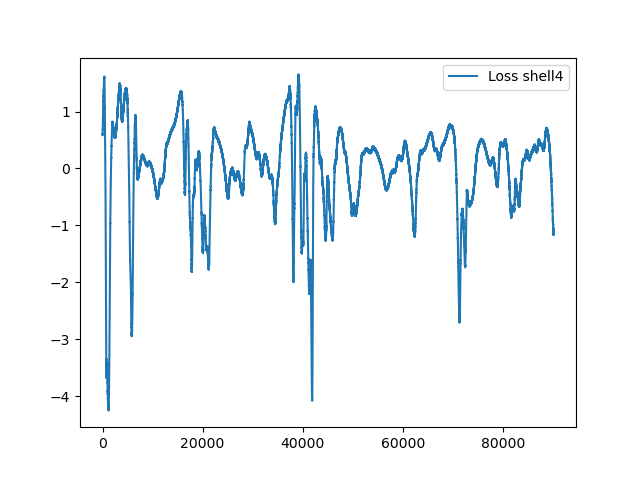
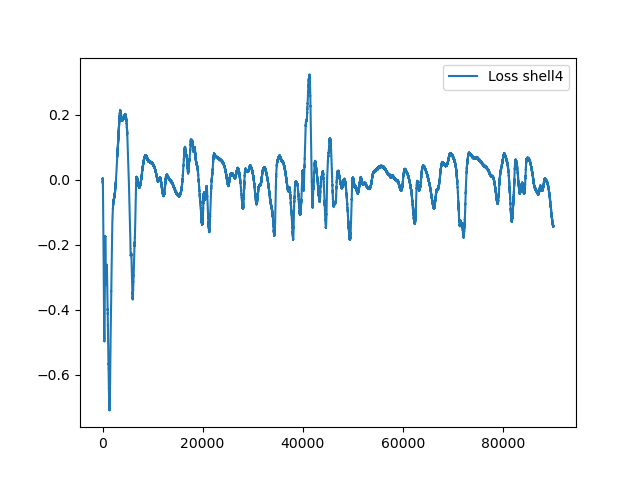
dataset update and loss test

diff --git a/PINNs/architecture.py b/PINNs/architecture.py
@@ -44,7 +44,7 @@ class initials_variables_data(Dataset):
         #initialise the variables
         self.k_min = k_min
         self.k_max = k_max
-        self.X_ic = X_ic[self.k_min:self.k_max*2]  # select only the shells between k_min and k_max
+        self.X_ic = torch.from_numpy(X_ic[self.k_min:self.k_max*2])  # select only the shells between k_min and k_max
         self.nbr_initial_t = nbr_initial_t
         
         self.x_initial = np.array([k for k in range(k_min,k_max*2)],dtype="float32") # shells selected for initial conditions
@@ -73,28 +73,30 @@ class initials_variables_data(Dataset):
 class boundary_variables_data(Dataset):
     def __init__(self,X_boundary,Npts,time,f,dt):
         
-        
-        self.X_boundary = X_boundary[0:Npts,:]
+        N_fs = int(1/((f-0.1)*dt))
+        self.X_boundary = torch.from_numpy(X_boundary[0:Npts,:])
         self.nb_k = np.shape(X_boundary)[1]
         self.nb_t = np.shape(X_boundary)[0]
-        self.tensor_data_bc = torch.ones((self.nb_k*self.nb_t,3), dtype=torch.float32) #columns: k, t, u
-        #X_test = torch.tensor(X_boundary,dtype=torch.float32).T.contiguous().view(self.nb_k*self.nb_t,1)
-        # trouver solution tq pour tout t, t!=0
-        time = torch.arange(0.1*time,time,10*f*dt,dtype=torch.float32)
+       
+        time = torch.arange(0.1*time,time,0.9*time/self.nb_t,dtype=torch.float32) #(time/f)*1/N_fs  #10*(f-0.1)*dt
         shell = torch.arange(0,self.X_boundary.shape[1],1,dtype=torch.float32)
         grid_shell,grid_time = torch.meshgrid(shell,time,indexing="xy")
         grid_shell = grid_shell.T.contiguous().view(Npts*self.X_boundary.shape[1],1)
         grid_time = grid_time.T.contiguous().view(Npts*self.X_boundary.shape[1],1)
         u_bc = torch.tensor(X_boundary).T.contiguous().view(Npts*self.X_boundary.shape[1],1)
-        self.tensor_data_bc_bis = torch.stack((grid_shell,grid_time,u_bc),1).view(Npts*self.X_boundary.shape[1],3)
-        for k in range(self.nb_k*self.nb_t): # data ordered as (k,t,u) in the grid
-            self.tensor_data_bc[k,0],self.tensor_data_bc[k,1],self.tensor_data_bc[k,2] = k//(self.nb_t),k%(self.nb_t),self.X_boundary[k%self.nb_t,k//self.nb_t]
-        print(f'shape tensor for boundary conditions: {self.tensor_data_bc.shape}')
-        t = torch.sub(self.tensor_data_bc_bis[:,2],self.tensor_data_bc[:,2])
-        print(t)
+        self.tensor_data_bc = torch.stack((grid_shell,grid_time,u_bc),1).view(Npts*self.X_boundary.shape[1],3)
+        
+        ############################### version boucle long ###############################
+        # self.tensor_data_bc_bis = torch.ones((self.nb_k*self.nb_t,3), dtype=torch.float32) #columns: k, t, u
+        # # trouver solution tq pour tout t, t!=0
+        # for k in range(self.nb_k*self.nb_t): # data ordered as (k,t,u) in the grid
+        #      self.tensor_data_bc_bis[k,0],self.tensor_data_bc_bis[k,1],self.tensor_data_bc_bis[k,2] = k//(self.nb_t),k%(self.nb_t),self.X_boundary[k%self.nb_t,k//self.nb_t]
+        # print(f'shape tensor for boundary conditions: {self.tensor_data_bc.shape}')
+        # t = torch.sub(self.tensor_data_bc_bis[:,2],self.tensor_data_bc[:,2])
+        # print(t, torch.std_mean(t))
         # for k in range(self.nb_k):
         #     print(self.tensor_data_bc[k*(self.nb_t-3):k*(self.nb_t+3)]) 
-        #print(X_test)
+        ###################################################################################
         
     def __len__(self):
         #return the lenght of the dataset
@@ -130,24 +132,33 @@ class colocations_variables_data(Dataset):
 
 
 class grid_data(Dataset): # créer la grille sur laquelle on veut inferer U(k,t) sous la forme (k,t)
-    def __init__(self,k_min,k_max,t_min,t_max): # 
+    def __init__(self,k_min,k_max,t_min,t_max,Npts): # 
         #initialise the variables
         self.k_min = k_min
         self.k_max = k_max
         self.t_min = t_min
         self.t_max = t_max
-        self.x = np.array([k for k in range(k_min,2*k_max)],dtype="float32")
-        self.t = np.array([t for t in range(t_min,t_max)],dtype="float32")
-        self.x, self.t = torch.tensor(self.x, dtype=torch.float32), torch.tensor(self.t, dtype=torch.float32)
-        self.grille = torch.ones((2*k_max-k_min)*(t_max-t_min),2, dtype=torch.float32)
-        for k in range((2*k_max-k_min)*(t_max-t_min)):
-            i = k%(t_max-t_min)
-            j = k//(t_max-t_min)
-            self.grille[k,0],self.grille[k,1] = self.x[j],self.t[i]
-
+        self.x = torch.arange(k_min,2*k_max,1,dtype=torch.float32)
+        self.t = torch.arange(t_min,t_max,(t_max-t_min)/Npts,dtype=torch.float32)
+        self.grid_k,self.grid_t = torch.meshgrid(self.x,self.t,indexing="xy")
+        self.grid_k = self.grid_k.T.contiguous().view(Npts*(2*k_max-k_min),1)
+        self.grid_t = self.grid_t.T.contiguous().view(Npts*(2*k_max-k_min),1)
+        self.grid = torch.stack((self.grid_k,self.grid_t),1).view(Npts*(2*k_max-k_min),2)
+        
+        ############### version boucle long #################################
+        #self.x = np.array([k for k in range(k_min,2*k_max)],dtype="float32")
+        #self.t = np.arange(t_min,t_max,(t_max-t_min)/Npts,dtype="float32")
+        #self.x, self.t = torch.tensor(self.x, dtype=torch.float32), torch.tensor(self.t, dtype=torch.float32)
+        #self.grille = torch.ones((2*k_max-k_min)*Npts,2, dtype=torch.float32)
+        # for k in range((2*k_max-k_min)*Npts):
+        #     i = k%Npts #(t_max-t_min)
+        #     j = k//Npts #(t_max-t_min)
+        #     self.grille[k,0],self.grille[k,1] = self.x[j],self.t[i]
+        # t = torch.sub(self.grille,self.grid)
+        #######################################################################
         self.N_k = np.shape(self.x)[0] 
         self.N_t = np.shape(self.t)[0]
-        print(f'shape tensor of the grid : {self.grille.shape}')
+        print(f'shape tensor of the grid : {self.grid.shape}')
 
     def __len__(self):
         #return the lenght of the dataset
@@ -155,4 +166,4 @@ class grid_data(Dataset): # créer la grille sur laquelle on veut inferer U(k,t)
 
     def __getitem__(self,idx):
         print(f'idx {idx}')
-        return self.grille[idx,0],self.grille[idx,1],idx  # This class only returns the x and t values of the grid not the velocity
+        return self.grid[idx,0],self.grid[idx,1],idx  # This class only returns the x and t values of the grid not the velocity

diff --git a/PINNs/pinn_goy.py b/PINNs/pinn_goy.py
@@ -284,25 +284,30 @@ def test_loss(Data_train,grille_datatset):
     grille = [t for t in range(Npts)]
     #u = torch.tensor(Data_train[:,k_min:2*k_max],requires_grad=True) #tensor des U(k,t)  #view(Npts,k_max-k_min)
     #tensor_split = torch.split(tensor_data,k_max-k_min,1)
-    u_t = np.copy(Data_train[:,k_min_collocation:k_max])
-    for k in range(k_min_collocation,k_max):
+    u_t = np.copy(Data_train[:,2*k_min_collocation:2*k_max-2])
+    for k in range(2*k_min_collocation,2*k_max-2):
         for t in range(0,Npts):
             #u_t[t,k-k_min_collocation] = (data[t+1,k-k_min_collocation]*np.exp(nu*K[k]*dt)-data[t,k-k_min_collocation])/dt
             if t!=0 and t!=Npts-1:
-                u_t[t,k-k_min_collocation] = (data[t+1,k-k_min_collocation]-data[t-1,k-k_min_collocation])/(2*(dt*f))
+                u_t[t,k-2*k_min_collocation] = (data[t+1,k-2*k_min_collocation]-data[t-1,k-2*k_min_collocation])/(2*(10*dt*f))
             if t==0:
-                u_t[t,k-k_min_collocation] = (data[t+1,k-k_min_collocation]-data[t,k-k_min_collocation])/(dt*f)
+                u_t[t,k-2*k_min_collocation] = (data[t+1,k-2*k_min_collocation]-data[t,k-2*k_min_collocation])/(10*dt*f)
             if t==Npts-1:
-                u_t[t,k-k_min_collocation] = (data[t,k-k_min_collocation]-data[t-1,k-k_min_collocation])/(dt*f)
+                u_t[t,k-2*k_min_collocation] = (data[t,k-2*k_min_collocation]-data[t-1,k-2*k_min_collocation])/(10*dt*f)
 
+    u_t_real = u_t[:,::2]
+    u_t_im = u_t[:,1::2]
 
-    u_t = torch.tensor(u_t)
-    GOY_physics_real = torch.zeros(Npts,(k_max - k_min_collocation))
-    GOY_physics_im = torch.zeros(Npts,(k_max - k_min_collocation))
+    u_t_im = torch.tensor(u_t_im)
+    u_t_real = torch.tensor(u_t_real)
+
+    GOY_physics_real = torch.zeros(Npts,(k_max-2 - k_min_collocation))
+    GOY_physics_im = torch.zeros(Npts,(k_max-2 - k_min_collocation))
+
     
     for i in range (k_min_collocation,k_max-2):
             j= i-k_min_collocation
-            GOY_physics_real[:,j] = u_t[:,j] 
+            GOY_physics_real[:,j] = u_t_real[:,j] 
 
             -K[i]*(data_real[:,j+1]*data_im[:,j+2] + data_im[:,j+1]*data_real[:,j+2]) 
 
@@ -312,7 +317,7 @@ def test_loss(Data_train,grille_datatset):
 
             + nu*K[i]*K[i]*data_real[:,j] #deltat =1
 
-            GOY_physics_im[:,j] = u_t[:,j] 
+            GOY_physics_im[:,j] = u_t_im[:,j] 
 
             -K[i]*(data_real[:,j+1]*data_real[:,j+2] - data_im[:,j+1]*data_im[:,j+2]) 
 
@@ -351,7 +356,7 @@ print(f'cuda is available : {command}')
 PATH =r"./GOY-main/" # r"/home/s26calme/Documents/code_stage/Donnees/GOY_modele/Parametre_Ewen/"
 path_data = PATH + "data.dat"
 
-data =  np.loadtxt(path_data) # charge le jeu de données
+data =  np.loadtxt(path_data,dtype=np.float32) # charge le jeu de données
 Nmax = np.shape(data)[0] # nombres de pas de temps
 debut = int(0.1*Nmax) # skip la phase de stabilisation
 
@@ -388,8 +393,10 @@ eps =  0.5     # for the NL coefficients
 nu = 1.e-7     # vicosité
 nb_shell = 22 
 dt = 1.0e-5
-time = 1000
 f=100 # sauvegarde tous les f points
+time = 1000
+Steps = time/dt # nombre de pas
+N_fs = int(1/((f-0.1)*dt)) # enregistrement tous les N_fs pas 
 ############ parameters for the PINN ############
 
 
@@ -413,7 +420,7 @@ model.to(device)
 
 nbr_initial_t = 1     # Only t=0 for defining the initial condition
 t_min = 0    # t initial pour la grille          
-t_max = Npts # tmax pour la grille 
+t_max = 1000 # tmax pour la grille 
 
 
 ############# initialization of dataset for training #################
@@ -424,7 +431,7 @@ t_max = Npts # tmax pour la grille
 initial_train_dataset = initials_variables_data(Data_ic,nbr_initial_t,k_min,k_max)
 boundary_train_dataset = boundary_variables_data(X_boundary=Data_bc,Npts=Npts,time=time,f=f,dt=dt)
 colocation_dataset = colocations_variables_data(Data_train)
-grid_dataset = grid_data(k_min,k_max,t_min,t_max)
+grid_dataset = grid_data(k_min,k_max,t_min,t_max,Npts=Npts)
 
 
 batch_size_bc = int(0.01*Npts)
